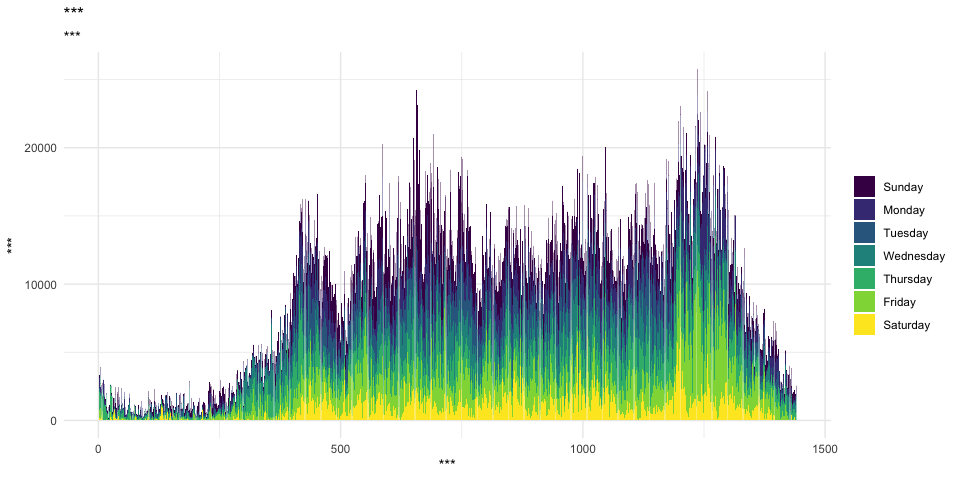
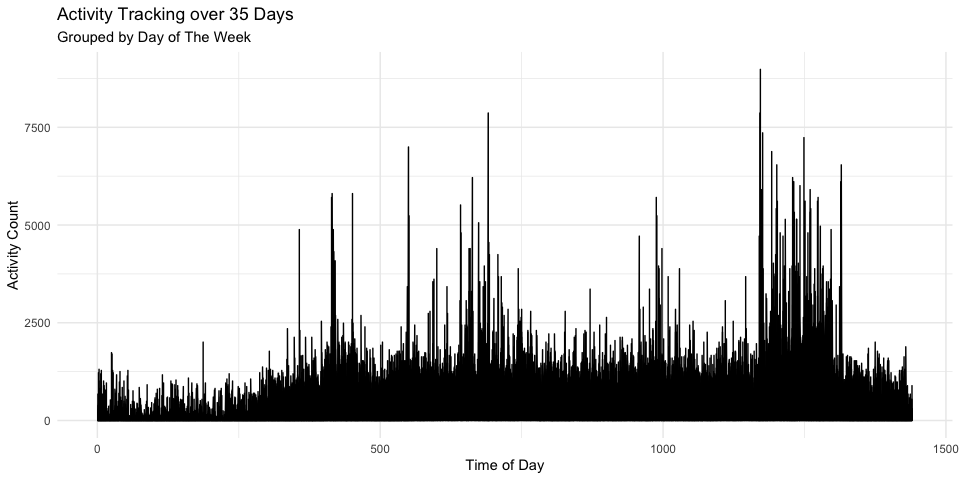
fixed problem 2 misunderstanding

diff --git a/p8105_hw3_ksw2137.md b/p8105_hw3_ksw2137.md
@@ -6,7 +6,8 @@ Kevin S.W.
 # Introduction
 
 Homework for showing capability in data visualization and exploratory
-data analysis
+data analysis. Package loaded along with default, global settings
+include `tidyverse` & `dplyr`.
 
 # Problem 1 - InstaCart Data Wrangling and Visualization
 
@@ -14,7 +15,6 @@ data analysis
 # Loads instacart data from source
 library(p8105.datasets)
 data("instacart")
-
 
 
 # Assigns a new dataframe to the data-source to prevent frequent "reloads"
@@ -58,10 +58,10 @@ likely of particular importance:
 ### Problem 1a - Making Graph for Top Aisle Categories
 
 This dataset is huge as indicated previously. As such, we have to filter
-out some things in the interest of
-efficiency.
+out some things in the interest of efficiency.
 
 ``` r
+# modifies source df to further process for ggplot
 aisle_item_count <- insta_df %>%                   # assigned source df to a new one for wrangling
   select(product_name, aisle_id, aisle) %>%        # select relevant columns
   drop_na() %>%                                    # drops any NA
@@ -76,6 +76,7 @@ category with 150609 orders. We then make a graph below to illustrate
 the top 39 most ordered categories.
 
 ``` r
+# modifies aisle-counts and print out a plot of the "ranking"
 aisle_item_count %>% 
   filter(aisle_order_count > 10000) %>%                          # filters to contain counts > 10,000
   
@@ -116,6 +117,7 @@ Similarly, we need to filter our base dataframe to obtain these
 variables of interest.
 
 ``` r
+# filter df to show top 3 of most ordered
 insta_df %>% 
   select(product_name, aisle) %>%                 # pick relevant columns
   drop_na() %>%                                   # drop any NA
@@ -158,6 +160,7 @@ item x gets ordered in day y?”. Particularly, we’re interested in “Pink
 Lady Apples” and “Coffee Ice Cream”. We will also split the time by day.
 
 ``` r
+# filter original table to only show data for selected products
 insta_df %>% 
   select(order_dow, order_hour_of_day, product_name) %>%      # select relevant columns
   drop_na() %>%                                               # drop any NA
@@ -301,42 +304,44 @@ The resulting table contains 36 states and 45 states in 2002 and 2010
 respectively. Interestingly, while working on the table, I noticed that
 there are 49 states in the 2002 data but 51 states in 2010. After
 investigating, this is because Montana (MT) started participating in
-2004 and Virginia (VA) in 2007.
+2004 and Virginia (VA) in
+2007.
 
-### Problem 2b - excellent response
+### Problem 2b - Fluctuations in “Excellent” Responses over Time by State
 
-We also want to see
-
-Construct a dataset that is limited to Excellent responses, and
-contains, year, state, and a variable that averages the data\_value
-across locations within a state. Make a “spaghetti” plot of this average
-value over time within a state (that is, make a plot showing a line for
-each state across years – the geom\_line geometry and group aesthetic
-will help).
+In this problem, we are trying to collect data on how the average
+“excellent” responses fluctuate over time in each state. Since there
+are ~50 states, our graph will unfortunately look like a “spaghetti”.
 
 ``` r
+# filter out source data for plotting
 brfss_df %>% 
-  select(response, year, state, data_value) %>% 
-  group_by(year, state) %>% 
-  filter(response == "Excellent") %>% 
-  drop_na(data_value) %>% 
-  summarize(avg_data = mean(data_value)) %>% 
+  select(response, year, state, data_value) %>%                 # select relevant columns
+  group_by(year, state) %>%                                     # group by specified variables
+  filter(response == "Excellent") %>%                           # filter to contain excellent responses only
+  drop_na(data_value) %>%                                       # drop any NA (for states that didn't participate)
+  summarize(avg_data = mean(data_value)) %>%                    # create a new df to include mean # of responses
   
-  ggplot(aes(x = year, y = avg_data, color = state)) +
-  geom_line(alpha = 0.7) +
-  theme(legend.position = "right",
-        panel.background = element_rect(color = "gray96")
+# spaghetti plot for excellent responses
+  ggplot(aes(x = year, y = avg_data, color = state)) +          # color category by state
+  geom_line() +
+  theme(legend.position = "right"                             # legend position adjustment
+        #panel.background = element_rect(fill = "coral4")
         ) +
-  scale_x_discrete(limits = 2002:2010) +
-  guides(color = guide_legend(override.aes = list(size = 6)))
+  scale_x_discrete(limits = 2002:2010) +                        # adjust min, max of x-axis range
+  guides(color = guide_legend(override.aes = list(size = 6)))   # resize the color code for legends
 ```
 
 <img src="p8105_hw3_ksw2137_files/figure-gfm/spaghetti_plot-1.png" style="display: block; margin: auto;" />
 
+The resulting line graph above does indeed look like a “spaghetti”.
+However, based on the plot, we can definitely see a certain “outlier” in
+2005. Based on our color legends, it is likely Wyoming (WY)
+
 ### Problem 2c - Making plot of responses in NY
 
 ``` r
-brfss_df %>% 
+test <- brfss_df %>% 
   select(response, year, state, data_value) %>% 
   group_by(year, state) %>% 
   filter(state == "NY",
@@ -357,8 +362,6 @@ brfss_df %>%
         panel.grid.major.x = element_blank()
         )
 ```
-
-<img src="p8105_hw3_ksw2137_files/figure-gfm/response_distr_plot-1.png" style="display: block; margin: auto;" />
 
 # Problem 3
 
@@ -436,26 +439,36 @@ knitr::kable(
 | -----: | -----: | ---: | -----: | -----: | -----: | -----: |
 | 620860 | 389080 | 1440 | 138421 | 549658 | 367824 | 445366 |
 
+### Problem 3b - Activity Tracking over 35 Days
+
+In this problem we are interested to see the pattern of this patient’s
+behavior
+
 Accelerometer data allows the inspection activity over the course of the
 day. Make a single-panel plot that shows the 24-hour activity time
 courses for each day and use color to indicate day of the week. Describe
 in words any patterns or conclusions you can make based on this graph.
 
 ``` r
-accel_df %>% 
+base_accel_plot <- accel_df %>% 
   ungroup() %>% 
   select(day_id, day, minute_mark, activity_count) %>% 
   group_by(day_id) %>% 
   ggplot(aes(x = minute_mark, y = activity_count, fill = day)) +
-  geom_bar(stat = "identity", alpha = 1) +
+  geom_line() +
+  #geom_bar(stat = "identity", alpha = 1) +
   guides(color = guide_legend(override.aes = list(size = 5))) +
   theme(legend.position = "right") +
-  labs(title = "***",
-       subtitle = "***",
-       x = "***",
-       y = "***",
+  labs(title = "Activity Tracking over 35 Days",
+       subtitle = "Grouped by Day of The Week",
+       x = "Time of Day",
+       y = "Activity Count",
        fill = ""
        )
+
+base_accel_plot
 ```
 
 <img src="p8105_hw3_ksw2137_files/figure-gfm/daily_accel_plot-1.png" style="display: block; margin: auto;" />
+
+The graph above definitely shows a typical pattern of
